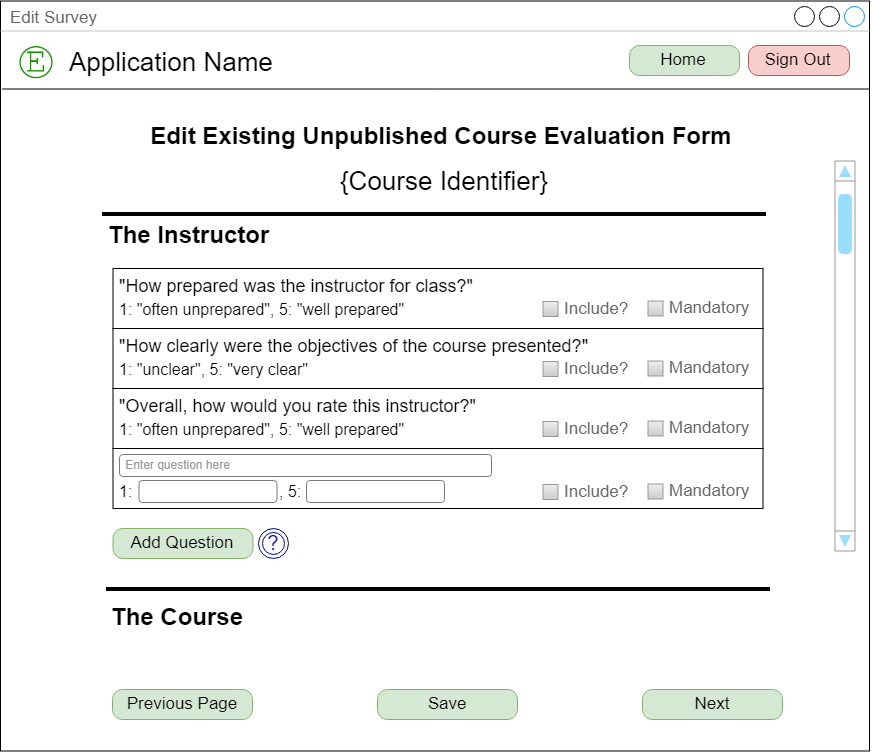
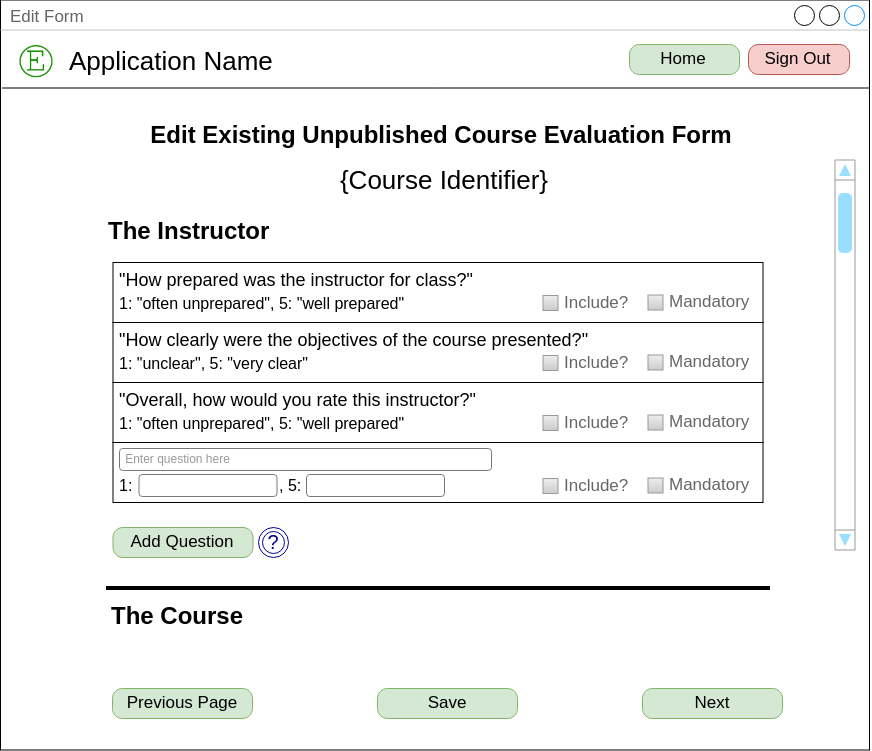
Revisions

diff --git a/documents/uidd.tex b/documents/uidd.tex
@@ -49,9 +49,9 @@ Instructor: Professor Terry Yoo
 
 \subsection{Purpose of This Document}
 
-This user interface design document is an overview of the graphics and layouts shown to the users of our course evaluation system. The first section, the user interface standards, describes the general features of the graphics, such as layouts and components, that are common to all screens in the interface. The second section, the user interface walkthrough, includes a ``navigation diagram'' of the order in which the screens are shown, and complete wireframes of each screen. The docuement's third section gives the data items typically entered in the user interface and how they are formatted.
+This user interface design document is an overview of the graphics and layouts shown to the users of our course evaluation system. The first section, the user interface standards, describes the general features of the graphics, such as layouts and components, that are common to all screens in the interface. The second section, the user interface walkthrough, includes a ``navigation diagram'' of the order in which screens appear, as well as complete wireframes of each screen. The docuement's third section gives the data items typically entered in the user interface and how they are formatted.
 
-This document is intended for the development team, the product client, Dr. Harlan Onsrud, and potential users of the system. Team EVAL needs this document to properly implement the user interface in code. Dr. Onsrud also needs it to verify that the program's appearance looks appropriate for universities and to suggest revisions to the UI. Lastly, the document helps the software's users, serving as a guide on how to use the software.
+This document is intended for the development team, the product client, Dr. Harlan Onsrud, and potential users of the system. Team EVAL needs this document to properly implement the user interface in code. Dr. Onsrud also needs it to verify that the program's appearance looks appropriate for universities. Lastly, the document helps the software's users in that it serves as a guide for how to use the software.
 
 
 \subsection{References}
@@ -66,7 +66,7 @@ Onsrud, H. ''Report for Professor: Roy Turner'' See Appendix E.
 
 \section{User Interface Standards}
 
-The interface of the course evaluation system is standardized in that several features are present in multiple screens. Figure 1, shown on the next page, is the overall screen layout of our course evaluation system. It shows the general areas and components of the screens in the user interface. Not all screens follow this exact overall layout.
+The interface of the course evaluation system is standardized; several components are present in multiple screens. Figure 1, shown on the next page, is the overall screen layout of our course evaluation system. It shows the general areas and components of the screens in the user interface. Not all screens follow the exact overall layout.
 
 \newpage
 
@@ -77,7 +77,7 @@ The interface of the course evaluation system is standardized in that several fe
 \vspace{2mm}
 \end{center}
 
-For ease of use, the team made the designs simple for each of the screens. On the top-left corner, there is a button to return the user to the home page (or the log-in screen if the user is at the home page). To the right is the page title, which summarizes the purpose of the screen. The top-right corner includes the help button, which directs the user to the help screen. The ``content'' is located below the top elements, containing instructions, data entry fields, and the like.  For sections that may be complicated a help pop up will appear when mousing over the question mark icon. Most screens also have a scroll bar on the right side if the information on a page cannot all fit in the web browser.
+For ease of use, the team made the designs simple for each screen. On the top-left corner, there is the team EVAL logo and the name of the program. The top-right corner includes a ``Home'' button, which returns the user to the home screen, and the ``Sign Out'' button, which takes the user to the log-in screen. The ``content'' is located below the top elements and contains data entry fields, evaluation results, and the like. For sections that may be look complicated, a help pop-up will appear when the mouse is over the question mark icon. Most screens also have a scroll bar on the right side if the information on a page cannot all fit in the web browser.
 
 \section{User Interface Walkthrough}
 
@@ -90,9 +90,9 @@ This section goes into more detail about the screens in the user interface and h
 \vspace{3mm}
 {\includegraphics[scale=0.6]{images/navigation_diagram.png}}
 \vspace{2mm}
-\end{center}
+\end{center} 
 
-The first screen that the user sees upon starting up the system is the \textbf{Landing Screen}. The user can switch between that and both the \textbf{FAQ Screen} and  \textbf{Log-In Screen}. After entering a correct username and password on the log-in screen, the \textbf{Home Screen} appears. The user can then call up the \textbf{Info Edit Screen}, \textbf{New Form Screen}, or \textbf{Results Screen} from the home page. To edit an evaluation form, a user must go to the info edit screen, then the \textbf{Question Edit Screen}, then the \textbf{E-mail Edit Screen}. The log-in screen and home screen can be accessed from any other screen except the about and FAQ screens.
+The first screen that the user sees upon starting up the system is the \textbf{Landing Screen}. Next, the user can view the \textbf{About Screen}, \textbf{FAQ Screen}, or  \textbf{Log-In Screen} and switch between the three. After entering a correct username and password on the log-in screen, the \textbf{Home Screen} appears. The user can then call up the \textbf{Info Edit Screen}, \textbf{New Form Screen}, or \textbf{Results Screen} from the home page. To edit an evaluation form, a user must go to the info edit screen, then the \textbf{Question Edit Screen}, then the \textbf{E-mail Edit Screen}. The log-in screen and home screen can be accessed from any other screen except the about and FAQ screens.
 
 The next set of figures, Figures 3 to 11, consist of the wireframes for each screen in the evaluation system. These diagrams communicate the areas, menus, and buttons that are unique to a certain screen and what they do.
 
@@ -107,7 +107,7 @@ The next set of figures, Figures 3 to 11, consist of the wireframes for each scr
 \end{figure}
 \end{center}
 
-This is the first screen a user would see when they enter the website. A user could click on the `Demo Teaching Evaluation' button that would link to an informative video. Clicking `Get Started' would lead them to an account creation screen. Alternatively they could click `About', `FAQ', or `Sign In' to enter the corresponding screens.
+This is the first screen a user would see when entering the website. A user could click on the ``Demo Teaching Evaluation'' button, which would link to an informative video. Clicking ``Get Started'' would lead them to an account creation screen. Alternatively they could click ``About'', ``FAQ'', or ``Sign In'' to enter the corresponding screens.
 
 \begin{center}
 \begin{figure}[H]
@@ -117,7 +117,7 @@ This is the first screen a user would see when they enter the website. A user co
 \end{figure}
 \end{center}
 
-A user would enter a valid username and password and login. Clicking `Log In' advances the user to the Selection Screen.  The about, FAQ, and Sign In buttons would take you to their respective pages.
+A user would enter a valid username and password to log in. Clicking ``Log In'' advances the user to the selection screen. The ``About'', ``FAQ'', and ``Sign In'' buttons would take you to their respective pages.
 
 \begin{center}
 \begin{figure}[H]
@@ -127,7 +127,7 @@ A user would enter a valid username and password and login. Clicking `Log In' ad
 \end{figure}
 \end{center}
 
-This screen details frequently asked questions a user may have and their corresponding answers. The about, FAQ, and Sign In buttons would take you to their respective pages.
+This screen details frequently asked questions that a user may have and their answers. The ``About'', ``FAQ'', and ``Sign In'' buttons would take you to their respective pages.
 
 \begin{center}
 \begin{figure}[H]
@@ -137,37 +137,37 @@ This screen details frequently asked questions a user may have and their corresp
 \end{figure}
 \end{center}
 
-This screen gives details about the product and its purpose. It also credits the creators as well as the client for whom the product was made.  The about, FAQ, and Sign In buttons would take you to their respective pages.
+This screen gives details about the product and its purpose. It also credits the creators, as well as the client for whom the product was made. The ``About'', ``FAQ'', and ``Sign In'' buttons would take you to their respective pages.
 
 \begin{center}
 \begin{figure}[H]
     \centering
     \caption{Home screen}
-    \includegraphics[scale=.25]{images/home_screen.png}
+    \includegraphics[scale=.30]{images/home_screen.png}
 \end{figure}
 \end{center}
 
-This is the main screen a user would see after they login. They can choose to create a new evaluation (1) which will redirect them to the new form screen. Select a course which they had published (2) which will redirect to the edit info screen where they view but not edit information.  They can select a course that has already been completed (3) which will redirect them to the edit screen to view but not edit information.  They can select a category to view results by, then choose a section of that category with the drop down menu (5) which will redirect them to the results page.
+This is the main screen a user would see after logging in. Users can choose to create a new evaluation form (1), which will redirect them to the new form screen. Selecting a course that they had published (2) will redirect them to the info edit screen, where they can view but not edit information. They can select a course that has already been completed (3), taking them to the edit screen. To view evaluation results (5), they must select a specific category type with the menu bar. Selecting a category name with the drop-down menu takes them to the results page.
 
 \begin{center}
 \begin{figure}[H]
     \centering
     \caption{New form screen}
-    \includegraphics[scale=.35]{images/create_screen.png}
+    \includegraphics[scale=.30]{images/create_screen.png}
 \end{figure}
 \end{center}
 
-This is the page a user would see if they decided to create a new evaluation. This page asks the user to fill out the general information of the course they're creating the evaluation for. Alternatively they can select a previously created preset rather than starting from scratch.  See Appendix D for a full example.
+This is the page users would see if they decided to create a new evaluation form. This page asks the user to fill out the general information of the course to which the evaluation form applies. Alternatively, the user can select a previously created preset rather than starting from scratch. See Appendix D for a full example.
 
 \begin{center}
 \begin{figure}[H]
     \centering
-    \caption{Edit Info screen}
+    \caption{Info edit screen}
     \includegraphics[scale=.30]{images/edit_info_screen.png}
 \end{figure}
 \end{center}
 
-Much similar to the new form screen, a user would will be redirected to this screen when they choose to edit a evaluation they've created. It allows them to view and edit the information of an existing evaluation.  The previous button will redirect the user to the home page, the next button will redirect them to the question edit screen and the save button will save the entered information. See Appendix D for a full example.
+Similar to the new form screen, a user would be redirected to this screen when choosing to edit a evaluation he or she has created. The page allows users to view and edit the information of an existing evaluation form.  The ``Previous'' button redirects the user to the home page, the ``Next'' button redirects them to the question edit screen, and the ``Save'' button saves the entered information. See Appendix D for a full example.
 
 \begin{center}
 \begin{figure}[H]
@@ -177,7 +177,7 @@ Much similar to the new form screen, a user would will be redirected to this scr
 \end{figure}
 \end{center}
 
-This is the second page a user would see when they are creating a course evaluation, they will be redirected here when they press the next button from the create form page or edit info page.  The previous button will redirect them to the question edit screen, the next button will redirect them to the E-mail edit screen and the save button will save the entered data. It lists several generic questions that may be asked in a evaluation and asks if the instructor would like to include it and whether or not it should be mandatory. They can also add custom questions at each section.  See Appendix D for a full example.
+This is the second page a user would see when creating a course evaluation. You are redirected here after pressing the next button from the new form page or info edit page.  The ``Previous'' button redirects the user to the question edit screen, the ``Next'' button goes to the e-mail edit screen, and the ``Save'' button saves the entered data. The page lists several generic questions that may be asked in a evaluation form. It also asks if the instructor would like to include a certain question and whether it should be mandatory. Users can also add custom questions at each section. See Appendix D for a full example.
 
 \begin{center}
 \begin{figure}[H]
@@ -187,82 +187,80 @@ This is the second page a user would see when they are creating a course evaluat
 \end{figure}
 \end{center}
 
-This is the final page a user would see when creating a new course evaluation. They will be redirected here when the next button is pressed on the Question Edit Screen. It asks the instructor to include a list of students taking the course, to review a generic email that would be sent to students, and to review a reminder email that could be sent after a certain period of time. See Appendix D for a full example.
+This is the final page a user would see when creating a new course evaluation. They will be redirected here when the ``Next'' button is pressed on the question edit Screen. It asks the instructor to include a list of students taking the course, to review a generic e-mail that would be sent to students, and to review a reminder e-mail that could be sent after a certain period of time. See Appendix D for a full example.
 
 \begin{center}
 \begin{figure}[H]
     \centering
     \caption{Results screen}
-    \includegraphics[scale=.25]{images/report_screen.png}
+    \includegraphics[scale=.28]{images/report_screen.png}
 \end{figure}
 \end{center}
 
-This page is where a user would view results of their evaluations based on the category selected when being redirected here from the home screen.  The responses organized by each question in the evaluation and displays different tables for undergraduate courses and graduate courses. It includes the median, mean, standard deviation, and number of answers for each question along with statistics on the question for categories the classes are included in. The results can also be downloaded and exported as a .csv file by clicking the download results button. See Appendix D for a full example.
+This page is where a user would view results of their evaluations based on the category selected on the home screen.  The responses are organized by each question in the evaluation and displays different tables for undergraduate courses and graduate courses. It includes the median, mean, standard deviation, and number of answers for each question along with question statistics for the classes in the selected category. The results can also be downloaded and exported as a .csv file by clicking the ``Download Results'' button. See Appendix D for a full example.
 
 \section{Data Validation}
 
-Table 1 on the next page lists the data items in the user interface of the evaluation system. A data item is an input that a user enters into the system and has a specified format. As shown on the next page, many items are for editing an evaluation evaluation form.
+Table 1 lists the data items in the user interface of the evaluation system. A data item is an input that a user enters into the system and has a specified format. Many of the items listed are for editing an course evalution form.
 
-\newpage
-\newgeometry{left=1cm, right=1cm, top=1in, bottom=1in}
 \begin{center}
 \captionof{table}{Data item specification}
-\scalebox{.90}{
-\begin{tabular}{|p{4.4cm}|p{2.2cm}|p{1.5cm}|p{4cm}|p{3cm}|} 
+\scalebox{.92}{
+\begin{tabular}{|p{4.4cm}|p{2.4cm}|p{1.5cm}|p{4cm}|p{3cm}|} 
 \hline
 \textbf{Label} & \textbf{Screen(s)} & \textbf{Data Type} & \textbf{Format} & \textbf{Limit(s)} \\
 \hline
 Username & Log in & String & username@gmail.com & N/A \\ 
 \hline
-Password &New/Edit form & String & N/A & N/A \\ 
+Password & Log in & String & N/A & N/A \\ 
 \hline
-Course designator & New/Edit form & String & N/A & 50 characters \\ 
+Course designator & New form, info edit & String & N/A & 50 characters long\\ 
 \hline
-Course number &New/Edit form & String & N/A & 50 characters\\ 
+Course number & New form, info edit & String & N/A & 50 characters long\\ 
 \hline
-Course section &New/Edit form & String & N/A & 50 characters\\ 
+Course section & New form, info edit & String & N/A & 50 characters long\\ 
 \hline
-Course title & New/Edit form & String & N/A & 50 characters\\ 
+Course title & New form, info edit & String & N/A & 50 characters long\\ 
 \hline
-Graduate Course & New/Edit form & Boolean & N/A & 50 characters\\ 
+Graduate course? & New form, info edit & Boolean & N/A & 50 characters long\\ 
 \hline
-Semester and year &New/Edit form & String & N/A & 50 characters\\ 
+Semester and year & New form, info edit & String & N/A & 50 characters long\\ 
 \hline
-Faculty unit & New/Edit form & String & N/A & 50 characters\\ 
+Faculty unit & New form, info edit & String & N/A & 50 characters long\\ 
 \hline
-Department & New/Edit form & String & N/A & 50 characters\\ 
+Department & New form, info edit & String & N/A & 50 characters long\\ 
 \hline
-University &New/Edit form & String & N/A & 50 characters\\ 
+University & New form, info edit & String & N/A & 50 characters long\\ 
 \hline
-Instructor first name &New/Edit form & String & N/A & 50 characters \\ 
+Instructor first name & New form, info edit & String & N/A & 50 characters long\\ 
 \hline
-Instructor last name & New/Edit form & String & N/A & 50 characters\\ 
+Instructor last name & New form, info edit & String & N/A & 50 characters long\\ 
 \hline
-Instructor e-mail & New/Edit form & String & N/A & 50 characters\\ 
+Instructor e-mail & New form, info edit & String & N/A & 50 characters long\\ 
 \hline
-Instructor phone & New/Edit form & String & N/A & 50 characters\\ 
+Instructor phone & New form, info edit & String & N/A & 50 characters long\\ 
 \hline
-Course evaluation administrator & New/Edit form & String & N/A & 50 characters\\ 
+Course evaluation administrator & New form, info edit & String & N/A & 50 characters long\\ 
 \hline
-Evaluation administrator e-mail & New/Edit form & String & N/A & 50 characters\\ 
+Evaluation administrator e-mail & New form, info edit & String & N/A & 50 characters long\\ 
 \hline
-Starting assessment date & String & New/Edit form & mm/dd/yy & 50 characters\\ 
+Starting assessment date & New form, info edit & String & mm/dd/yy & 50 characters long\\ 
 \hline
-Mailing time & New/Edit form & String & hr:min:sec & 50 characters\\ 
+Mailing time & New form, info edit & String & hh:mm:ss & 50 characters long\\ 
 \hline
-Closing assessment date & New/Edit form & String & N/A & 50 characters\\ 
+Closing assessment date & New form, info edit & String & N/A & 50 characters long\\ 
 \hline
-Added question & Question edit & Strings & N/A & 150 characters\\ 
+Added questions & Question edit & Strings & N/A & 150 characters long\\ 
 \hline
-1 score label & Question edit & String & N/A & 50 characters\\
+1 score label & Question edit & String & N/A & 50 characters long\\
 \hline
-5 score label & Question edit & String & N/A & 50 characters\\
+5 score label & Question edit & String & N/A & 50 characters long\\
 \hline
 ``Include?'' checkboxes & Question edit & Boolean & N/A & N/A \\ 
 \hline
 ``Mandatory'' checkboxes & Question edit & Boolean & N/A & N/A \\ 
 \hline
-Class roll & E-mail edit & String & Comma separated: \newline first,last,email & N/A \\ 
+Class roll & E-mail edit & String & Comma-separated lines: \newline ``first name, last name, e-mail address'' & N/A \\ 
 \hline
 Initial e-mail to students & E-mail edit & String & N/A & N/A \\ 
 \hline
@@ -299,7 +297,7 @@ Customer Comments: & \multicolumn{2}{ l }{ $\rule{10.45cm}{.1mm}$ }\\[.5cm]
 \newpage
 \section{Team Review Sign-off}
 
-This page shows that all members of Team EVAL have reviewed the user interface design document and agreed on its content. By signing this document, the team members agree that all information about the evaluation system's UI is accurate, and that there is nothing in the document that is a source of contention.
+This page shows that all members of Team EVAL have reviewed the user interface design document and agreed on its content. By signing this document, the team members agree that all information about the evaluation system's UI is accurate, and there is nothing in the document that is a source of contention.
 
 \vspace{.7in}
 \noindent
@@ -325,11 +323,11 @@ Comments: & \multicolumn{2}{ l }{ $\rule{10.45cm}{.1mm}$ }\\[.5cm]
 
 Stanley Small contributed to the discussion of the UI design. Stan contributed approximately 5 percent of the document.
 
-Jovon Craig wrote the purpose of the document, the user interface standards section, the description of the UI navigation, the first three columns of the data item table, and Appendix C. He created the overall layout diagram, navigation diagram, and many of the individual screen layouts. Jovon contributed about 35 percent of the document.
+Jovon Craig wrote the purpose of the document, the user interface standards section, the description of the UI navigation, the first three columns of the data item table, and Appendix C. He created the overall layout diagram, navigation diagram, and many of the individual screen layouts. He revised several screen layouts and parts of the document. Jovon contributed about 35 percent of the document.
 
-Sam Elliott revised all of the individual screen layouts and their descriptions as well as adding several new screens. He also wrote the last two columns in the data item table. Sam contributed about 40 percent of the document.
+Sam Elliott revised all of the individual screen layouts and their descriptions, and he added several new screens. He also wrote the last two columns in the data item table and revised the summaries of each wireframe. Sam contributed about 40 percent of the document.
 
-Robert Judkins converted the UIDD template to the LaTeX format and placed it in our document. He wrote the descriptions under each wireframe picture of the UI. He also added the references and appendices A, B, and D. Robert contributed about 20 percent of the document.
+Robert Judkins converted the UIDD template to the LaTeX format and placed it in our document. He initially wrote the descriptions under each wireframe picture of the UI. He also added the references and appendices A, B, and D. Robert contributed about 20 percent of the document.
 
 \newpage
 
@@ -338,6 +336,6 @@ Robert Judkins converted the UIDD template to the LaTeX format and placed it in 
 
 \newpage
 
-\includepdf[scale=0.85,pages=1,pagecommand=\section{Example Results Display}]{images/results_appendix.pdf}
-\includepdf[scale=0.85,pages=2-]{images/results_appendix.pdf}
+\includepdf[scale=0.92,pages=1,pagecommand=\section{Example Results Display}]{images/results_appendix.pdf}
+\includepdf[scale=0.92,pages=2-]{images/results_appendix.pdf}
 \end{document}
